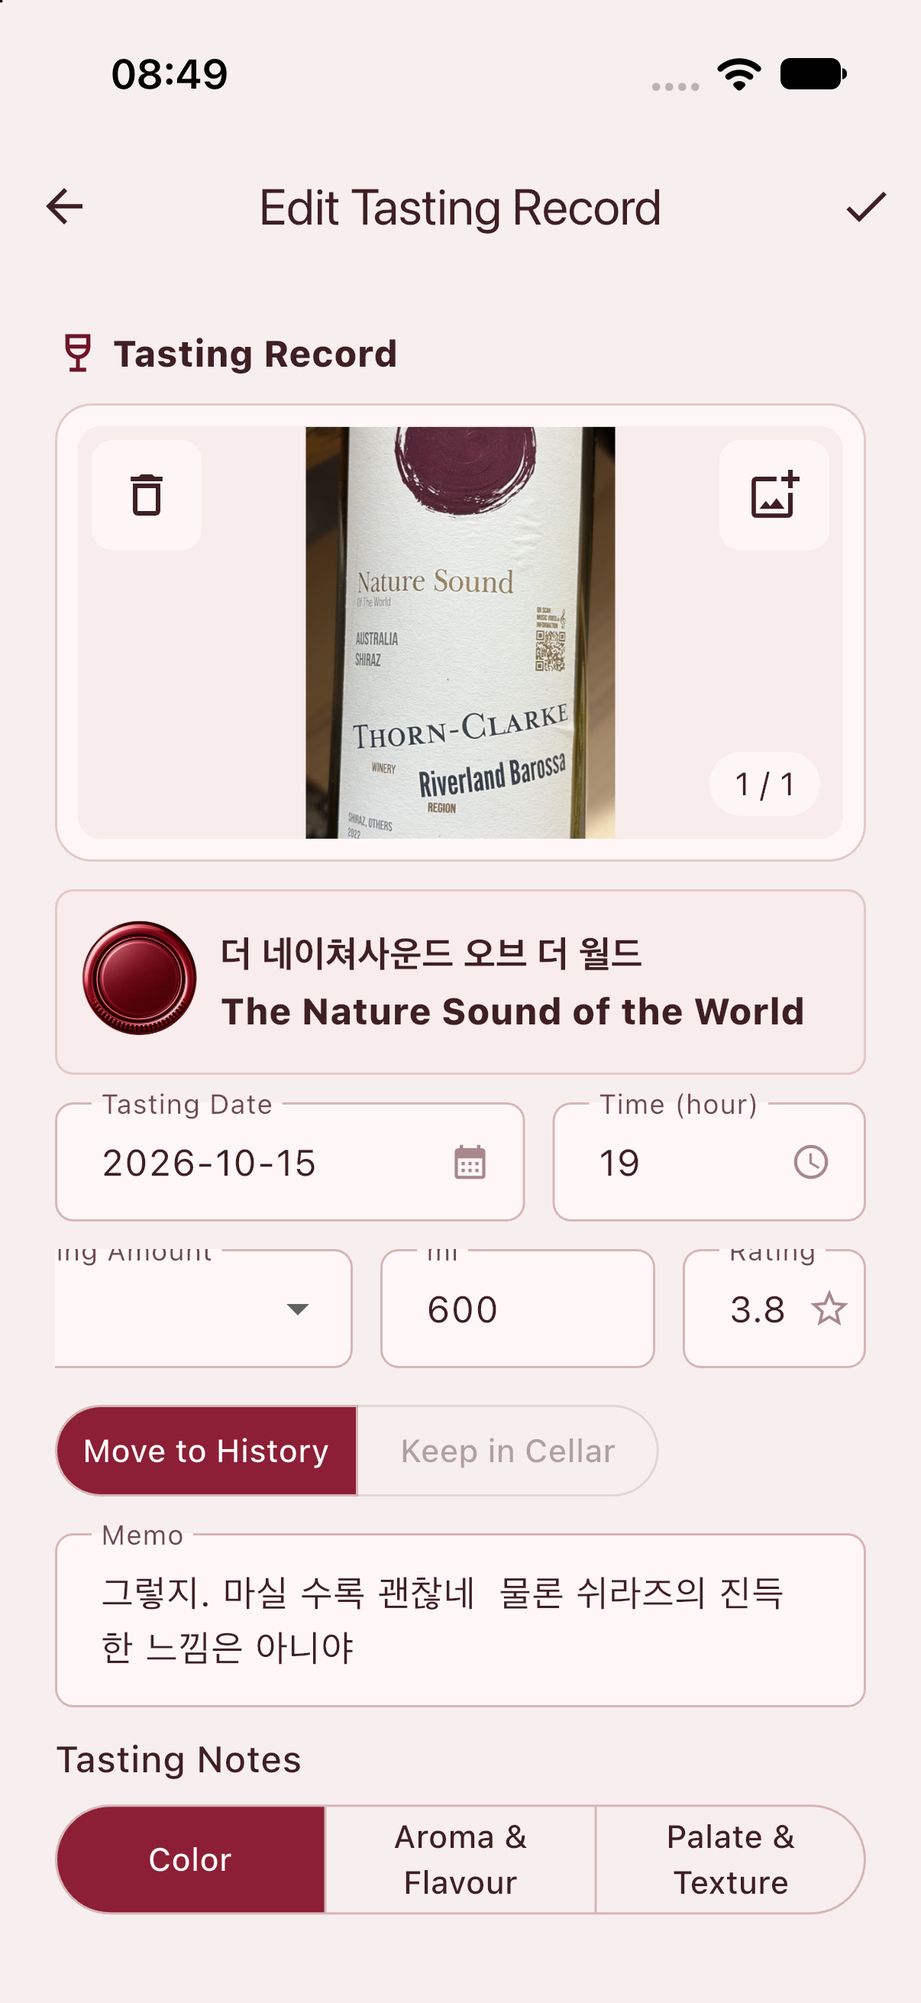
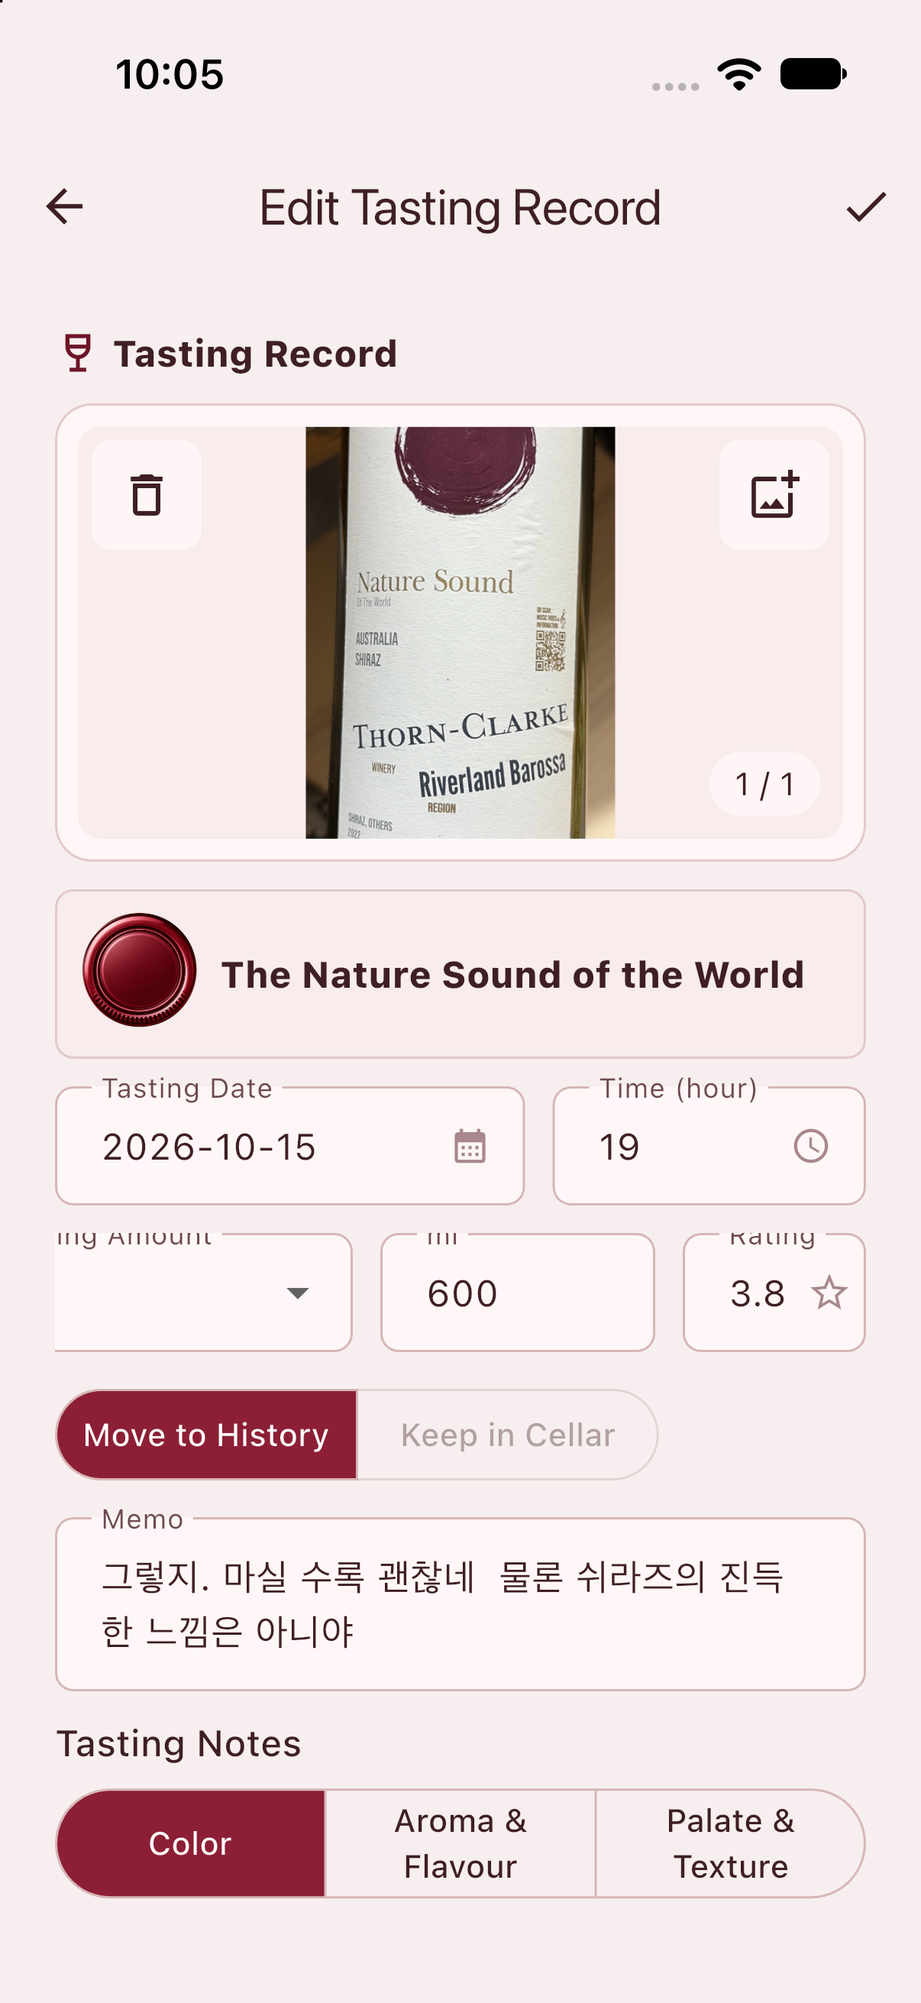
Replace Korean UI feature images with English simulator captures

diff --git a/features.html b/features.html
@@ -192,14 +192,14 @@
             <p>See what is in each cellar and how many bottles remain. Arrange layers and positions to match your storage, and keep track of each bottle, even when you own several of the same wine. Bottles outside a cellar can stay unassigned.</p>
             <div class="feature-media">
               <figure class="feature-shot"><a href="images/features/olwine-home-en.png"><img src="images/features/olwine-home-en.png" alt="Collection overview" width="1206" height="2622" loading="lazy"></a><figcaption>Collection overview</figcaption></figure>
-              <figure class="feature-shot"><a href="images/features/cellar-layout.png"><img src="images/features/cellar-layout.png" alt="Dragging the rosé wine from A3 to change its storage position on layer 11 (Korean UI)" width="851" height="1849" loading="lazy"></a><figcaption>Wines by layer and position (Korean UI)</figcaption></figure>
+              <figure class="feature-shot"><a href="images/features/cellar-layout_e.png"><img src="images/features/cellar-layout_e.png" alt="Main Cellar Level 11 with positions A1 through B4 and A3 selected" width="1206" height="2622" loading="lazy"></a><figcaption>Wines by layer and position</figcaption></figure>
             </div>
           </article>
           <article class="feature-item" id="tastings-en">
             <h3>A tasting journal, from a glass to a bottle</h3>
             <p>Record a small pour or a finished bottle and keep track of what remains. Save ratings, photos, notes, and impressions of body, tannin, sweetness, acidity, and aromas. Keep several tastings for one bottle, or browse the photo list to revisit the wine and the occasion.</p>
             <div class="feature-media">
-              <figure class="feature-shot"><a href="images/features/olwine-tasting-photos-ko.png"><img src="images/features/olwine-tasting-photos-ko.png" alt="Tasting records with photos (Korean UI)" width="1206" height="2622" loading="lazy"></a><figcaption>Tasting records with photos (Korean UI)</figcaption></figure>
+              <figure class="feature-shot"><a href="images/features/olwine-tasting-photos-en.png"><img src="images/features/olwine-tasting-photos-en.png" alt="Tasting records with photos" width="1206" height="2622" loading="lazy"></a><figcaption>Tasting records with photos</figcaption></figure>
               <figure class="feature-shot"><a href="images/features/partial-tasting_e.png"><img src="images/features/partial-tasting_e.png" alt="Amounts and tasting ratings" width="1206" height="2622" loading="lazy"></a><figcaption>Amounts and tasting ratings</figcaption></figure>
             </div>
           </article>
@@ -207,8 +207,8 @@
             <h3>A helping hand when reorganizing</h3>
             <p>Plan a new layout by wine type, country, or drinking window, or choose your own priorities. Review the proposed layout, then follow the steps one bottle at a time or take bottles out and refill. For smaller changes, move or swap bottles, or mark their location as unassigned.</p>
             <div class="feature-media">
-              <figure class="feature-shot"><a href="images/features/olwine-organization-ko.png"><img src="images/features/olwine-organization-ko.png" alt="Choose how to organize (Korean UI)" width="1206" height="2622" loading="lazy"></a><figcaption>Choose how to organize (Korean UI)</figcaption></figure>
-              <figure class="feature-shot"><a href="images/features/olwine-position-ko.png"><img src="images/features/olwine-position-ko.png" alt="Quick position changes (Korean UI)" width="1206" height="2622" loading="lazy"></a><figcaption>Quick position changes (Korean UI)</figcaption></figure>
+              <figure class="feature-shot"><a href="images/features/olwine-organization-en.png"><img src="images/features/olwine-organization-en.png" alt="Choose how to organize" width="1206" height="2622" loading="lazy"></a><figcaption>Choose how to organize</figcaption></figure>
+              <figure class="feature-shot"><a href="images/features/olwine-position-en.png"><img src="images/features/olwine-position-en.png" alt="Quick position changes" width="1206" height="2622" loading="lazy"></a><figcaption>Quick position changes</figcaption></figure>
             </div>
           </article>
           <article class="feature-item" id="search-en">
@@ -223,28 +223,28 @@
             <h3>See how your collection is taking shape</h3>
             <p>Explore your current collection, past tastings, and purchases in one place. See distributions by type, country, vintage, and other details, then open an item to look at the wines behind it.</p>
             <div class="feature-media">
-              <figure class="feature-shot"><a href="images/features/olwine-statistics-ko.png"><img src="images/features/olwine-statistics-ko.png" alt="Collection summary and wine types (Korean UI)" width="1206" height="2622" loading="lazy"></a><figcaption>Collection summary and wine types (Korean UI)</figcaption></figure>
+              <figure class="feature-shot"><a href="images/features/olwine-statistics-en.png"><img src="images/features/olwine-statistics-en.png" alt="Collection summary and wine types" width="1206" height="2622" loading="lazy"></a><figcaption>Collection summary and wine types</figcaption></figure>
             </div>
           </article>
           <article class="feature-item" id="label-en">
             <h3>Get a little help from a label photo</h3>
             <p>Take or choose a label photo, adjust the area to recognize, and use AI to help fill in wine details. Please review and correct the suggestions before saving. You can also copy a wine-information prompt for the AI you normally use and bring its answer back into the app.</p>
             <div class="feature-media">
-              <figure class="feature-shot"><a href="images/features/olwine-label-ai-ko.png"><img src="images/features/olwine-label-ai-ko.png" alt="Label recognition and editable wine details (Korean UI)" width="1206" height="2622" loading="lazy"></a><figcaption>Label recognition and editable wine details (Korean UI)</figcaption></figure>
+              <figure class="feature-shot"><a href="images/features/olwine-label-ai-en.png"><img src="images/features/olwine-label-ai-en.png" alt="Label recognition and editable wine details" width="1206" height="2622" loading="lazy"></a><figcaption>Label recognition and editable wine details</figcaption></figure>
             </div>
           </article>
           <article class="feature-item" id="taste-en">
             <h3>Discover patterns in your tasting notes</h3>
             <p>Look back over the past year, three years, or your full tasting history to explore the wines you rated highly. AI helps interpret a summary of your records, and you can save an analysis to inform later recommendations. Consider the gaps too, especially where records are limited.</p>
             <div class="feature-media">
-              <figure class="feature-shot"><a href="images/features/olwine-taste-analysis-ko.png"><img src="images/features/olwine-taste-analysis-ko.png" alt="Analysis periods and external AI options (Korean UI)" width="1206" height="2622" loading="lazy"></a><figcaption>Analysis periods and external AI options (Korean UI)</figcaption></figure>
+              <figure class="feature-shot"><a href="images/features/olwine-taste-analysis-en.png"><img src="images/features/olwine-taste-analysis-en.png" alt="Analysis periods and external AI options" width="1206" height="2622" loading="lazy"></a><figcaption>Analysis periods and external AI options</figcaption></figure>
             </div>
           </article>
           <article class="feature-item" id="recommendations-en">
             <h3>Choose what to open next</h3>
             <p>Select candidates from your collection and ask for suggestions to suit a meal or occasion. Explore which wine to drink first, bottles to compare, or a serving order. Use a saved taste analysis or copy a prompt for an external AI, and treat the suggestions as another perspective when making your choice.</p>
             <div class="feature-media">
-              <figure class="feature-shot"><a href="images/features/olwine-recommendation-ko.png"><img src="images/features/olwine-recommendation-ko.png" alt="Choose a recommendation purpose (Korean UI)" width="1206" height="2622" loading="lazy"></a><figcaption>Choose a recommendation purpose (Korean UI)</figcaption></figure>
+              <figure class="feature-shot"><a href="images/features/olwine-recommendation-en.png"><img src="images/features/olwine-recommendation-en.png" alt="Choose a recommendation purpose" width="1206" height="2622" loading="lazy"></a><figcaption>Choose a recommendation purpose</figcaption></figure>
             </div>
           </article>
           <article class="feature-item" id="wishlist-en">
@@ -266,14 +266,14 @@
             <h3>Small milestones along the way</h3>
             <p>Collect badges as you care for your wines and record your tastings. Browse achievements, follow your progress toward the next milestone, and discover a few surprises. You can turn a favorite badge into an image to share.</p>
             <div class="feature-media">
-              <figure class="feature-shot"><a href="images/features/olwine-badges-ko.png"><img src="images/features/olwine-badges-ko.png" alt="Earned badges and upcoming milestones (Korean UI)" width="1206" height="2622" loading="lazy"></a><figcaption>Earned badges and upcoming milestones (Korean UI)</figcaption></figure>
+              <figure class="feature-shot"><a href="images/features/olwine-badges-en.png"><img src="images/features/olwine-badges-en.png" alt="Earned badges and upcoming milestones" width="1206" height="2622" loading="lazy"></a><figcaption>Earned badges and upcoming milestones</figcaption></figure>
             </div>
           </article>
           <article class="feature-item" id="backup-en">
             <h3>Keep your records in your own files</h3>
             <p>Export wine and tasting records as CSV to use in a spreadsheet, or restore a file that follows the app's CSV format. Use an OL~ WINE backup to include photos as well. Keep your backup somewhere safe: restoring replaces the current records with the file contents. Automatic syncing between devices is not available.</p>
             <div class="feature-media">
-              <figure class="feature-shot"><a href="images/features/olwine-backup-ko.png"><img src="images/features/olwine-backup-ko.png" alt="Backup and restore with photos (Korean UI)" width="1206" height="2622" loading="lazy"></a><figcaption>Backup and restore with photos (Korean UI)</figcaption></figure>
+              <figure class="feature-shot"><a href="images/features/olwine-backup-en.png"><img src="images/features/olwine-backup-en.png" alt="Backup and restore with photos" width="1206" height="2622" loading="lazy"></a><figcaption>Backup and restore with photos</figcaption></figure>
             </div>
           </article>
         </div>

diff --git a/FEATURE_SCREENSHOT_BRIEF.md b/FEATURE_SCREENSHOT_BRIEF.md
@@ -21,7 +21,7 @@
 
 - iPhone 17 / iOS 27.0 Simulator의 실제 앱 화면을 사용했다.
 - 사용자가 공개 촬영을 위해 넣어둔 사진은 유지했다. 허용한 시뮬레이터 데이터 변경 범위에서 구매희망의 임시 입력을 예시 와인 3종·4병으로 정리하고, 홈의 수량도 이에 맞춰 갱신했다. 사진 목록은 사진이 있는 기록이 대부분인 2026년 10월 첫 화면을 선택했다. 이후 사용자 요청으로 ‘셀러’를 ‘메인 셀러’로 바꾸고 한국어·영어 홈을 다시 촬영했다. 같은 셀러의 11층 8병은 종류를 각각 레드·화이트·로제·스파클링·디저트·주정강화·오렌지·기타로 지정했다. 와인명·위치·수량·시음 기록·사진은 유지했다.
-- 홈·시음 입력·검색 결과·검색 필터·구매희망·QR 생성은 한국어·영어로 각각 촬영했다. 층 배치는 사용자 제공 한국어 녹화의 드래그 프레임에서 아일랜드를 제거한 편집본을 양쪽 페이지에 사용한다. QR 연결 정보는 아래 사용자 제공 화면을 바탕으로 카메라 영역을 연출한 한국어·영어 편집본을 사용한다. 한국어 UI를 사용하는 영어 본문 캡션에는 Korean UI를 표기한다.
+- 영문 페이지에서 한국어 UI를 사용하던 10장을 실제 영문 화면으로 재촬영했다. 한국어 층 배치는 사용자 제공 녹화의 드래그 프레임에서 아일랜드를 제거한 편집본을 유지하고, 영문은 A3가 선택된 실제 영문 정지 화면을 사용한다. QR 연결 정보는 아래 사용자 제공 화면을 바탕으로 카메라 영역을 연출한 한국어·영어 편집본을 유지한다. 영문 페이지의 Korean UI 표기는 모두 제거했다.
 - 층 배치의 아일랜드 제거본, QR 연결 정보의 카메라 예시·영문 번역 편집본, 한국어 시음 입력의 붉은 박스 주석본을 제외한 새 화면은 원본 PNG를 사용한다. 실제 AI 인식 결과의 임의 작성은 하지 않는다.
 - AI 요청을 실행하거나 서버 정책·지급량·요금제·앱 권한을 변경하지 않았다.
 
@@ -32,32 +32,39 @@
 | 장면 | 확인 결과와 조치 |
 | --- | --- |
 | 홈 | 현재 UI와 동일. 구매희망 예시 수량과 ‘메인 셀러’ 이름을 반영. 이후 위치 미지정 ‘보관 예정 와인’ 1병을 추가해 총 보관 155병·미지정 1병 상태로 한국어·영어 재촬영 |
-| 층과 자리별 배치 | 사용자 제공 녹화의 6.58초 프레임으로 교체. 메인 셀러 11층 A3의 로제 와인이 원래 자리에서 떨어져 드래그되는 모습. 이후 사용자 요청으로 아일랜드 제거. 영문에도 같은 한국어 편집본 사용 |
-| 시음 사진 목록 | 현재 사진 목록과 동일해 유지 |
+| 층과 자리별 배치 | 한국어는 사용자 녹화의 6.58초 드래그·아일랜드 제거본 유지. 영문은 Main Cellar / Level 11 / A3 선택 상태를 재촬영 |
+| 시음 사진 목록 | 한국어 유지. 영문 와인명과 사진이 보이는 2026년 10월 목록 재촬영 |
 | 시음 입력 | 사진·와인 헤더·시음량·평점 입력 구성이 달라 한국어·영어 재촬영. 한국어는 사용자 요청으로 ‘시음량’과 ‘ml’ 수량 두 필드만 붉은 굵은 사각 테두리로 강조 |
-| 셀러 정리 시작 | 현재 카드 구성과 동일해 유지 |
-| 간단 위치 변경 | 현재 화면과 동일해 유지 |
+| 셀러 정리 시작 | 한국어 유지. 영문 정리 방식·My Cellar Plan 표시로 재촬영 |
+| 간단 위치 변경 | 한국어 유지. Overflow Cellar / Fridge가 보이는 영문 화면 재촬영. 이동은 실행하지 않음 |
 | 검색 결과 | 현재 목록·와인별 보기·상태 범례로 한국어·영어 재촬영 |
 | 검색 필터 | 현재 항목·초기화 명령·시음 적기 스위치로 한국어·영어 재촬영 |
-| 현황 | 현재 요약·차트 구성과 동일해 유지 |
-| 라벨 입력 | 현재 라벨 인식·사진 추가·입력란 구성과 동일해 유지 |
-| 취향 분석 | 현재 기간 선택·입력 확인·외부 AI 명령과 동일해 유지 |
-| 와인 추천 | 같은 후보 3종과 먼저 마실 와인 조건으로 대조, 동일해 유지 |
+| 현황 | 한국어 유지. 보관 155병과 종류 차트가 보이는 영문 화면 재촬영 |
+| 라벨 입력 | 한국어 유지. La Spinetta Timorasso Derthona의 영문 수정 화면 재촬영. 저장·인식 요청 없음 |
+| 취향 분석 | 한국어 유지. 기간 선택·입력 확인·외부 AI 명령의 실제 영문 화면 재촬영. 서버 요청 없음 |
+| 와인 추천 | 한국어 유지. 같은 후보 3종과 Drink sooner 조건의 실제 영문 화면 재촬영. 서버 요청 없음 |
 | 구매희망 | 현재 수량·예상 금액 요약과 목록으로 한국어·영어 재촬영 |
 | QR 생성 | 현재 개별 와인의 생성 설정으로 한국어·영어 재촬영. QR 출력·재발급은 실행하지 않음 |
 | QR 연결 정보 | 사용자 제공 2026-10-19 09.01.42 화면을 바탕으로 한국어·영어 구성. 이후 사용자 요청으로 아일랜드를 제거하고 카메라 영역을 QR 태그가 병목에 걸린 와인병 실사풍 이미지로 교체. 카메라 예시임을 캡션에 표시 |
-| 배지 | 현재 달성·진행률·배지 카드 구성과 동일해 유지 |
-| 전체 백업 | 현재 사진 포함 옵션과 백업·복구 명령 구성이 동일해 유지 |
+| 배지 | 한국어 유지. 실제 영문 달성·진행률·배지 카드 화면 재촬영 |
+| 전체 백업 | 한국어 유지. 사진 포함 옵션과 백업·복구 명령이 보이는 실제 영문 화면 재촬영. 실행하지 않음 |
 
 앞선 추가 작업에서는 14개 PNG를 준비했다. 9월의 한국어·영어 캡처 12개와 한국어 홈을 교체하고 영어 홈 1개를 추가했다. 이 캡처의 실제 크기는 1206×2622이다. 영문 시음 입력의 가로 스크롤 행은 시음량·평점이 보이는 위치에서 촬영했다.
 
 QR 연결 정보 이미지는 사용자 제공 스크린샷을 바탕으로 편집했다. 현재 한국어 `qr-scan-result.png`(851×1849)와 영문 `qr-scan-result_e.png`(850×1851)는 내장 imagegen으로 아일랜드를 지우고, 카메라 영역에 병목의 끈으로 흰 QR 태그를 매단 와인병 실사풍 예시를 넣은 편집본이다. 와인 정보·수량·날짜·가격은 기존 화면의 값을 유지하도록 지시했다. 영문은 기존 번역 문구를 유지한다. 실제 카메라로 해당 병을 스캔해 촬영한 화면이 아니며, 이미지 안의 QR은 스캔 기능 검증용으로 사용하지 않는다.
 
-한국어 `partial-tasting.png`는 내장 imagegen으로 기존 캡처의 ‘시음량’ 단위 필드와 ‘ml / 600’ 수량 필드에만 붉은 굵은 사각 테두리를 추가한 주석본(851×1849)이다. 편집 지시는 두 필드 전체를 각각 감싸되 평점 필드는 제외하고 나머지 문구·값·구성을 유지하는 내용이다. 영문 시음 입력 이미지는 이번 요청에서 변경하지 않았다.
+한국어 `partial-tasting.png`는 내장 imagegen으로 기존 캡처의 ‘시음량’ 단위 필드와 ‘ml / 600’ 수량 필드에만 붉은 굵은 사각 테두리를 추가한 주석본(851×1849)이다. 편집 지시는 두 필드 전체를 각각 감싸되 평점 필드는 제외하고 나머지 문구·값·구성을 유지하는 내용이다. 영문 시음 입력은 이후 영문 와인명이 보이도록 실제 화면을 재촬영했다. 사용자 메모는 원문을 유지했고, 시음량·평점 행은 가로 스크롤의 기존 UI 때문에 일부 항목명이 잘리지만 600과 3.8을 함께 보이는 위치로 맞췄다. 이 UI의 앱 코드 수정은 이번 캡처 작업에 포함하지 않았다.
+
+## 영문 촬영 갱신
+
+- 사용자 요청으로 시뮬레이터의 셀러 3대를 `Overflow Cellar`, `Mini Cellar`, `Main Cellar`로 바꿨다. 층 20개의 표시 이름과 정리 프리셋 1개·바인딩 3개의 이름도 영어로 맞췄다. 규칙은 유지했다.
+- 와인 1,179건과 구매희망 6건의 이름에서 한글 줄을 제거하고 기존 영문 줄을 유지했다. 영문명이 없는 `산타헬레나 까베르네 소비뇽`은 `Santa Helena Cabernet Sauvignon`, 촬영 예시 `보관 예정 와인`은 `Wine Awaiting Storage`로 옮겼다. 이름 문자열의 줄바꿈도 제거했다. 화면에서는 긴 영문명이 기존 UI 규칙에 따라 줄바꿈될 수 있다.
+- 변경 전 사본과 대조해 이름 외의 와인·구매희망·셀러·층 데이터, 사진 경로, 시음 기록, 잔량 보정, QR 토큰, 위치 제한과 정리 규칙이 그대로임을 확인했다. AI 요청, 백업·복구 실행, 와인 이동은 하지 않았다.
+- 기존 Korean UI 캡션 10장과 홈 1장에 더해, 옛 한글 이름이 남은 검색 결과·검색 필터·구매희망·시음 입력 4장도 재촬영했다. 총 15장의 영문 PNG를 준비했으며 모두 실제 시뮬레이터의 1206×2622 캡처다. 이번 촬영에는 이미지 생성·번역 합성을 사용하지 않았다. 한국어 페이지의 기존 이미지는 유지했다.
 
 ## 공개 전 확인할 사항
 
-층 배치의 `cellar-layout.png`는 사용자 제공 `Screen Recording iPhone 17 10-19-2026 at 09.15.37.mp4`에서 6.58초 프레임을 추출한 뒤 내장 imagegen으로 상단 검은 아일랜드를 주변 배경색으로 제거한 편집본(851×1849)이다. 시간·통신·배터리와 드래그 모습·문구·값은 유지하도록 지시했다. 기존 영문 `cellar-layout_e.png`는 삭제하지 않고 페이지 연결만 한국어 드래그 편집본으로 바꿨다.
+한국어 층 배치의 `cellar-layout.png`는 사용자 제공 `Screen Recording iPhone 17 10-19-2026 at 09.15.37.mp4`에서 6.58초 프레임을 추출한 뒤 내장 imagegen으로 상단 검은 아일랜드를 주변 배경색으로 제거한 편집본(851×1849)이다. 시간·통신·배터리와 드래그 모습·문구·값은 유지하도록 지시했다. 영문 `cellar-layout_e.png`는 위 영문 촬영 갱신의 실제 정지 캡처(1206×2622)로 교체했다.
 
 - 앱에는 기존 단일 프리미엄의 QR 생성·전체 백업·셀러 수 제한 코드가 남아 있다. 이번 요청의 기능별 차등 없는 페이지 구성에 맞춘 앱 권한 변경은 별도 작업이다.
 - 취향 분석의 현재 클라이언트 규약과 운영 서버 연결, 앱 내 추천의 운영 배포는 출시 전에 확인해야 한다. 추천 설명은 외부 AI 활용을 포함하며 운영 서버 이용을 보장하지 않는다.
